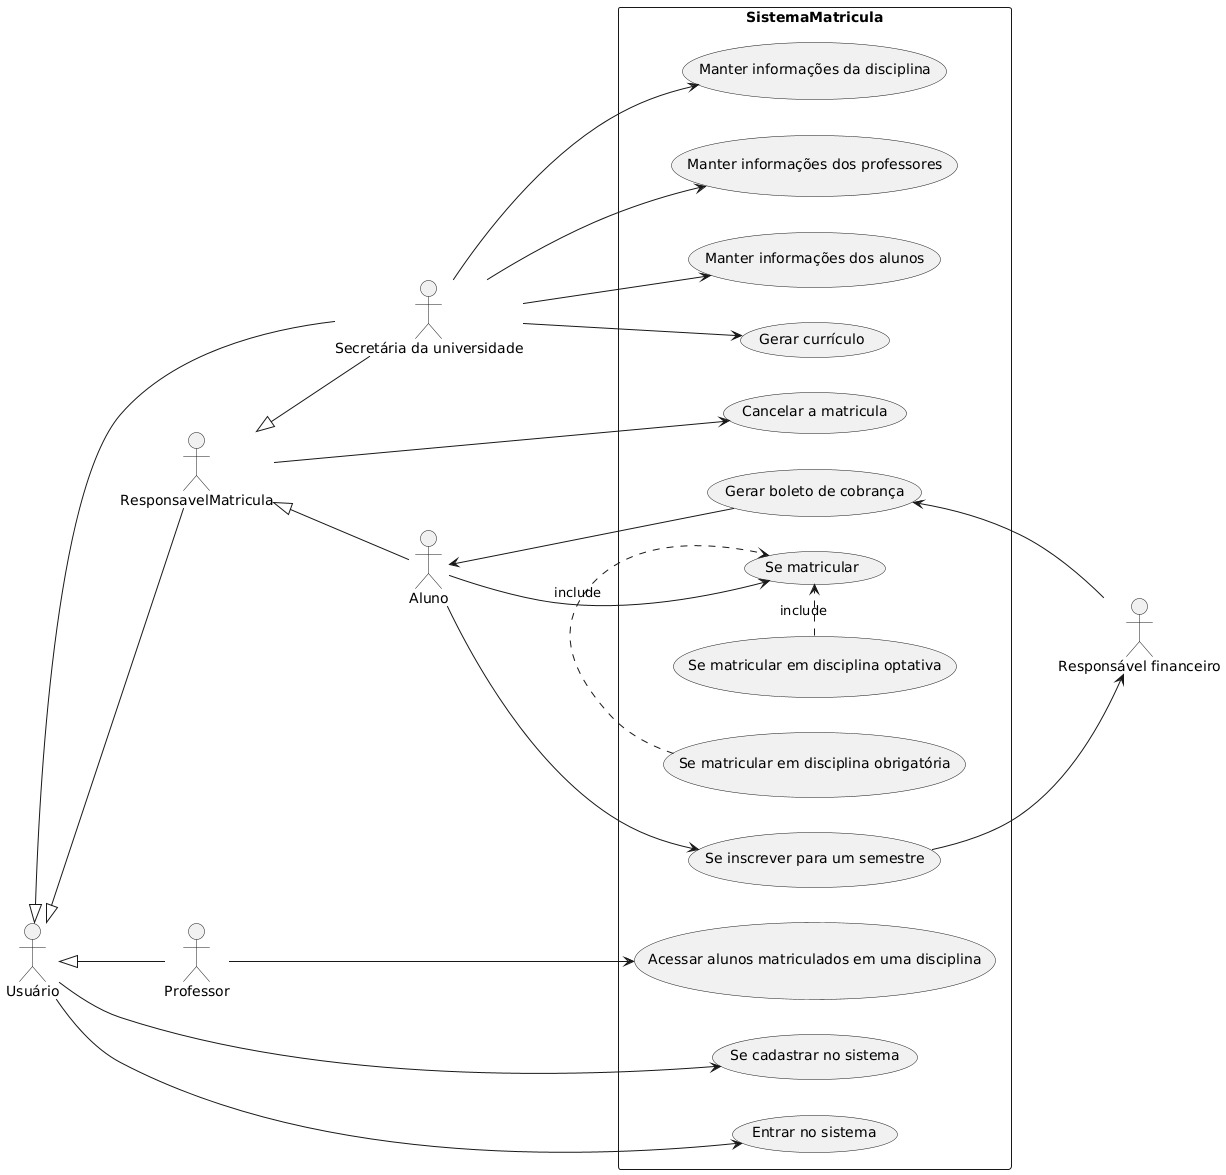
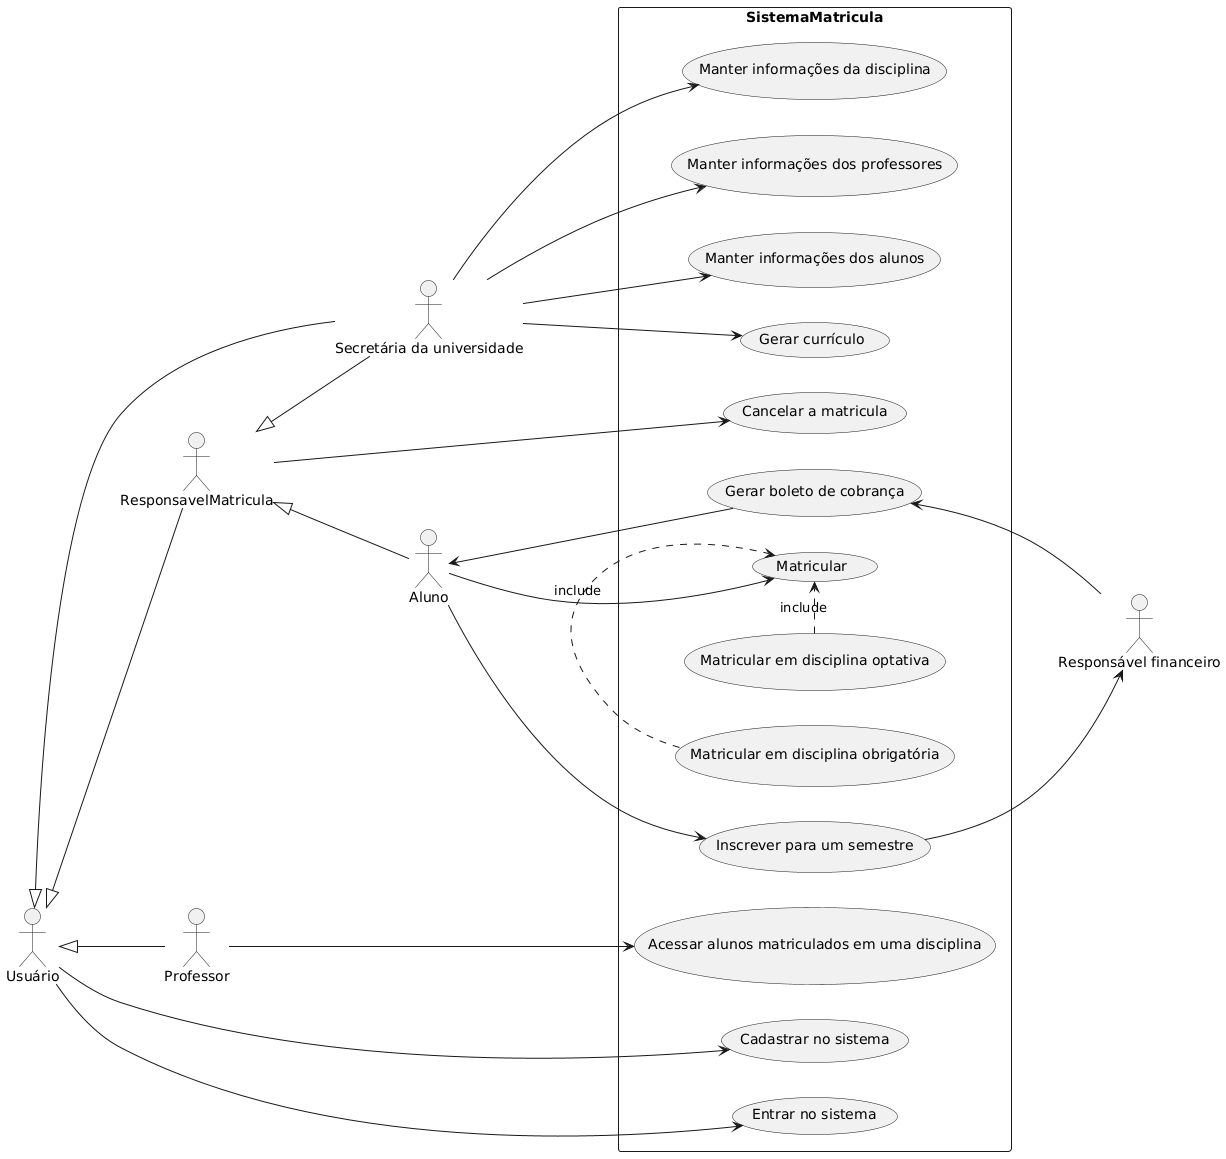
Update caso de uso

diff --git a/project/code/diagramaDeClasse.md b/project/code/diagramaDeClasse.md
@@ -17,8 +17,8 @@ class Aluno{
   - curso: Curso
   - disciplinasObrigatorias: List<Disciplina>
   - disciplinasOptativas: List<Disciplina>
-  - maxObrigatorias: int = 4
-  - maxOptativas: int = 2
+  - maxObrigatorias: const = 4
+  - maxOptativas: const = 2
   + confirmarMatricula(): void
   + cancelarMatricula(disciplina: Disciplina): void
   + matricularDisciplina(disciplina: Disciplina): void
@@ -39,8 +39,8 @@ class Disciplina {
   - creditos: int
   - ehObrigatoria: boolean
   - alunosMatriculados: List<Aluno>
-  - maxAlunos: int = 60
-  - minAlunos: int = 3
+  - maxAlunos: const = 60
+  - minAlunos: const = 3
   - status: String
   + statusDisciplina(): String
   + gerarCurriculo(): void
@@ -54,7 +54,6 @@ class Disciplina {
 class Cobranca {
   - id: int
   - aluno: Aluno
-  - curso: Curso
   - valor: float
   + calcularValorTotal(): float
 }
@@ -87,6 +86,7 @@ ResponsavelMatricula <|-- Aluno
 ResponsavelMatricula<|-- Secretaria
 Usuario<|-- ResponsavelMatricula
 
+Cobranca "0..*" -- "1" Aluno
 Aluno "1" -- "0..*" Curso 
 Aluno "3..60" -- "1..*" Disciplina 
 Professor "1" -- "0..*" Disciplina 

diff --git a/project/code/casoDeUso.md b/project/code/casoDeUso.md
@@ -16,11 +16,11 @@ s --> (Manter informações da disciplina)
 s --> (Manter informações dos professores)
 s --> (Manter informações dos alunos)
 
-(Se matricular) as matricular
-(Se matricular em disciplina obrigatória) .>  matricular : include
- (Se matricular em disciplina optativa) .> matricular : include
+(Matricular) as matricular
+(Matricular em disciplina obrigatória) .>  matricular : include
+ (Matricular em disciplina optativa) .> matricular : include
 
-(Se inscrever para um semestre) as inscreverSemestre
+(Inscrever para um semestre) as inscreverSemestre
 a --> matricular
 a --> inscreverSemestre
 
@@ -31,7 +31,7 @@ gerarBoleto --> a
 
 p --> (Acessar alunos matriculados em uma disciplina)
 
-u --> (Se cadastrar no sistema)
+u --> (Cadastrar no sistema)
 u --> (Entrar no sistema)
 
 rm --> (Cancelar a matricula)
